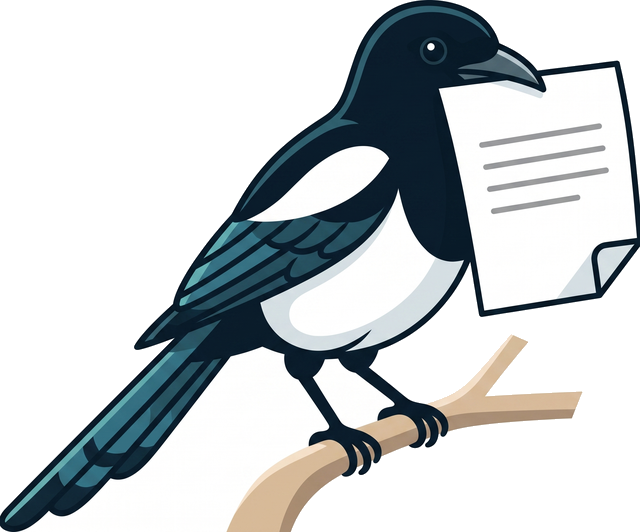
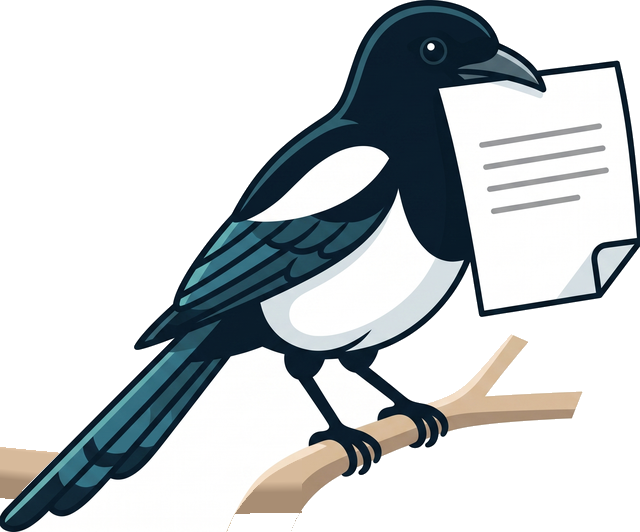
ui: branch extended to grow from the sidebar + resizable/scrollable profile
- rali_pica.png: redirected the branch's lower-left droop into a level branch that runs to the
  canvas LEFT edge (matched the original tan top/shadow gradient, no seam), so positioned flush
  (left-0) next to the sidebar it reads as the magpie perched on a branch growing out of the sidebar.
- Removed the 'you're chatting with Magpie~' caption.
- FloatingProfile: now drag-resizable (resize:both grip, native size persists across renders) with a
  bounded height, so a long PTKB list gets its own scrollbar + wheel; long facts wrap to the width.

Changed region(s): [[0.3438, 0.9023, 0.4688, 1.0], [0.0, 0.8421, 0.0938, 0.9624]]

diff --git a/src/components/FloatingProfile.tsx b/src/components/FloatingProfile.tsx
@@ -1,7 +1,10 @@
 import { useRef, useState, type ReactNode, type MouseEvent as ReactMouseEvent } from 'react'
 
-// A draggable, collapsible floating card (drag by its header). Used for the user-profile panel so it
-// floats over the conversation and the user can move it wherever they like.
+// A draggable + RESIZABLE floating card (drag by its header, resize from the bottom-right grip).
+// Width/height are intentionally NOT in the controlled `style` object: the browser's native
+// `resize` writes inline width/height, and because React never manages those keys it leaves them
+// alone across re-renders (so a resize sticks while dragging still updates left/top). The body is a
+// bounded flex child, so long content (e.g. a big PTKB list) gets its own scrollbar + wheel.
 export function FloatingProfile({
   title,
   initial,
@@ -14,7 +17,6 @@ export function FloatingProfile({
   children: ReactNode
 }) {
   const [pos, setPos] = useState(initial)
-  const [collapsed, setCollapsed] = useState(false)
   const dragRef = useRef<{ dx: number; dy: number } | null>(null)
 
   function onDown(e: ReactMouseEvent) {
@@ -38,8 +40,16 @@ export function FloatingProfile({
 
   return (
     <div
-      className="fixed z-20 flex max-h-[78vh] w-72 flex-col overflow-hidden rounded-2xl bg-paper/95 shadow-xl ring-1 ring-line backdrop-blur"
-      style={{ left: pos.x, top: pos.y }}
+      className="fixed z-20 flex h-[28rem] w-72 flex-col overflow-hidden rounded-2xl bg-paper/95 shadow-xl ring-1 ring-line backdrop-blur"
+      style={{
+        left: pos.x,
+        top: pos.y,
+        resize: 'both',
+        minWidth: 232,
+        minHeight: 180,
+        maxWidth: '92vw',
+        maxHeight: '88vh',
+      }}
     >
       <div
         onMouseDown={onDown}
@@ -47,19 +57,14 @@ export function FloatingProfile({
       >
         <span className="text-muted">⠿</span>
         <span className="text-sm font-medium">{title}</span>
-        <button
-          onClick={() => setCollapsed((c) => !c)}
-          className="ml-auto text-xs text-muted hover:text-ink"
-        >
-          {collapsed ? 'expand' : 'collapse'}
-        </button>
+        <span className="ml-auto text-[0.62rem] text-muted">drag ⠿ · resize ⤡</span>
         {onClose && (
           <button onClick={onClose} className="text-sm text-muted hover:text-ink" title="hide">
             ×
           </button>
         )}
       </div>
-      {!collapsed && <div className="min-h-0 flex-1 overflow-hidden">{children}</div>}
+      <div className="min-h-0 flex-1 overflow-hidden">{children}</div>
     </div>
   )
 }

diff --git a/src/App.tsx b/src/App.tsx
@@ -208,9 +208,8 @@ export default function App() {
         <div className="relative flex-1 overflow-hidden">
           {/* Sticky background magpie: pinned to the TOP-LEFT (next to the sidebar), fills the left
               whitespace of the conversation, and stays put while the conversation scrolls. */}
-          <div className="pointer-events-none absolute left-2 top-3 z-0 w-60 select-none">
+          <div className="pointer-events-none absolute left-0 top-3 z-0 w-60 select-none">
             <img src="/rali_pica.png" alt="" className="w-full" />
-            <p className="pl-2 text-sm italic text-muted">you&rsquo;re chatting with Magpie~</p>
           </div>
           <div className="absolute inset-0 z-10 overflow-y-auto px-4 py-6">
             <div className="mx-auto max-w-5xl space-y-6">

diff --git a/src/components/PtkbPanel.tsx b/src/components/PtkbPanel.tsx
@@ -106,7 +106,7 @@ export function PtkbPanel({
                 />
               ) : (
                 <div className="flex items-start gap-1">
-                  <span className="flex-1">{it.statement}</span>
+                  <span className="min-w-0 flex-1 break-words">{it.statement}</span>
                   <button
                     onClick={() => {
                       setEditing(it.id)